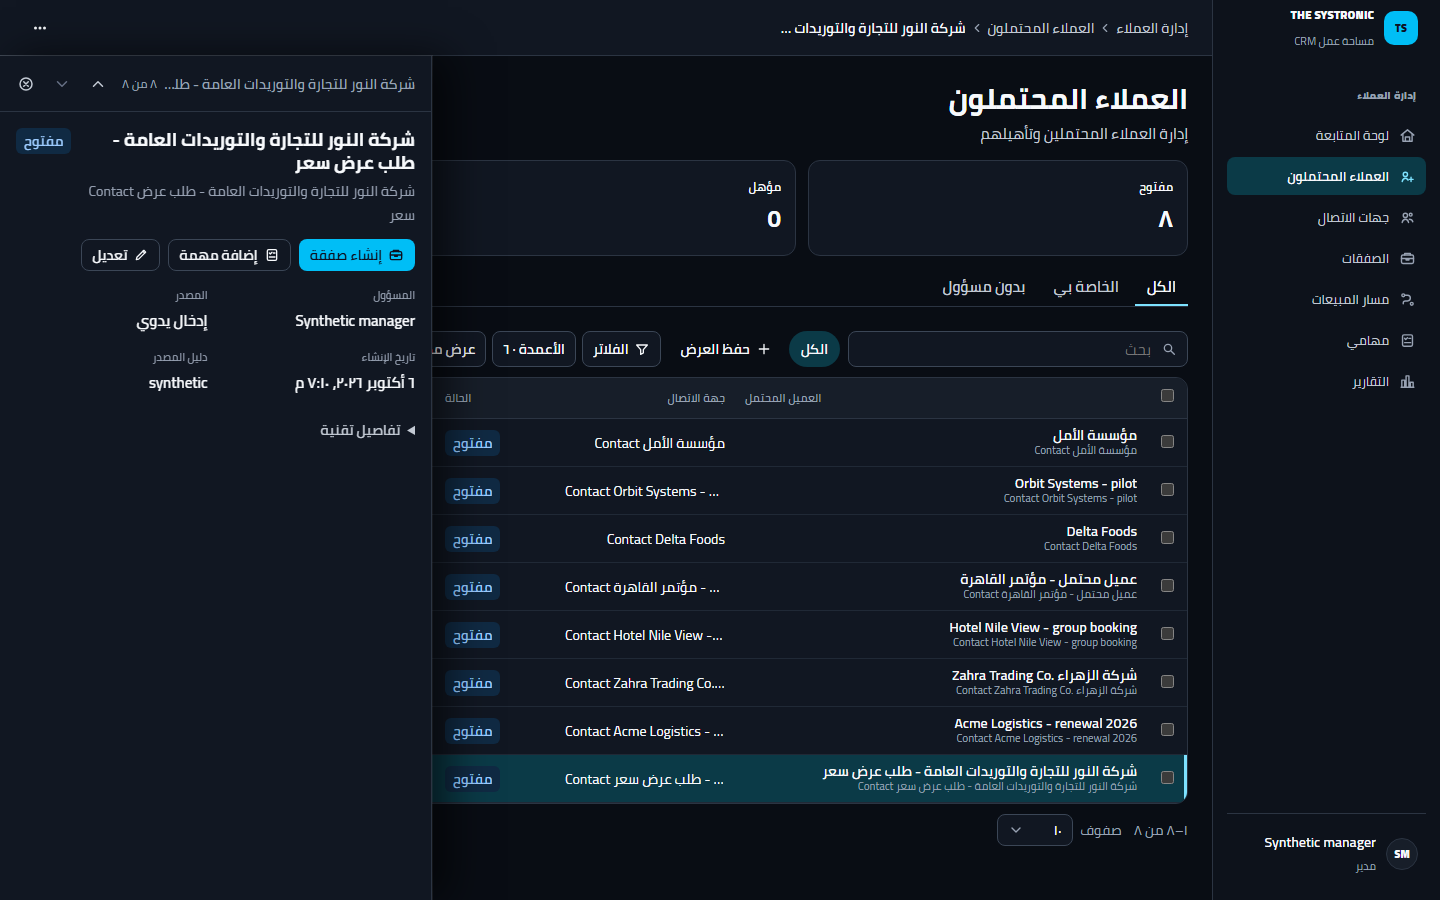
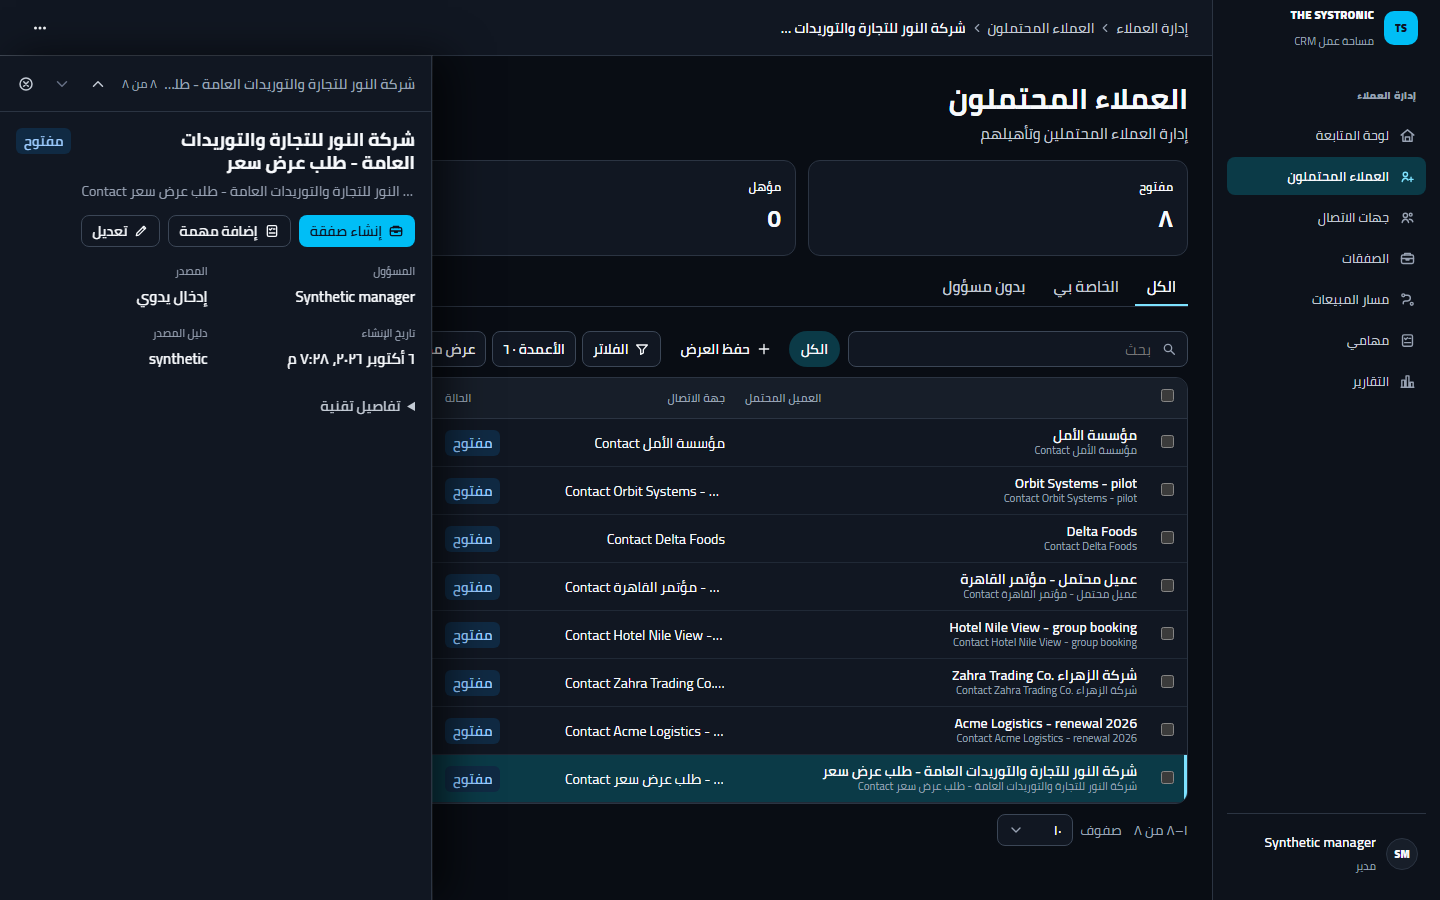
fix(crm): isolate mixed AR/EN user content centrally (BidiText + RecordPanel)
- BidiText: UI-direction wrapper (text-align:start) around a dir=auto value
  span; single-line ellipsis by default, `wrap` variant with text-wrap:balance
- RecordPanel: title/subtitle rendered as isolated BidiText (subtitle one line,
  full value in title attr) — fixes fragmented "Contact …" line in AR
- isolates for task related name, Select trigger value, saved-view names,
  pipeline card/stage; pipeline move-failed message via ICU placeholder
- tests: mvp-bidi-user-content.spec.ts (Latin-first + Arabic-first values,
  EN+AR, grid + panel), bidi-text unit test

Checks: lint 0, typecheck ok, unit 306, db 91, bootstrap 4, ui 213, build ok.

Changed region(s): [[0.0625, 0.1244, 0.3125, 0.4978]]

diff --git a/CRM_APP/tests/mvp-bidi-user-content.spec.ts b/CRM_APP/tests/mvp-bidi-user-content.spec.ts
@@ -1,0 +1,114 @@
+import { randomUUID } from "node:crypto";
+import { type APIRequestContext, expect, type Locator, type Page, test } from "@playwright/test";
+import pg from "pg";
+import { seed } from "../scripts/seed.js";
+
+process.loadEnvFile(".env");
+
+// UI_R4_SPEC I: USER CONTENT direction is decided per value from its first strong character, independent of the UI
+// direction; the value sits in its own isolated element and aligns to the UI start (right in AR, left in EN).
+async function fixture() {
+	const admin = new pg.Client({ connectionString: process.env.ADMIN_DATABASE_URL });
+	await admin.connect();
+	const f = await seed(admin);
+	await admin.end();
+	return f;
+}
+type Fixture = Awaited<ReturnType<typeof fixture>>;
+
+async function makeLead(request: APIRequestContext, f: Fixture, title: string, contact: string) {
+	const command_id = randomUUID();
+	const res = await request.post("/v1/leads", {
+		headers: {
+			Authorization: `Bearer ${f.tokens.manager}`,
+			"X-Tenant-ID": f.ids.a,
+			"Idempotency-Key": command_id,
+		},
+		data: { command_id, title, source_evidence: "synthetic", contact: { display_name: contact } },
+	});
+	expect(res.status()).toBe(201);
+}
+
+// Latin-first value with Arabic inside (resolves LTR) and Arabic-first value with Latin inside (resolves RTL).
+const LATIN_FIRST = { title: "Acme شركة النور للتجارة", contact: "Contact شركة النور - طلب عرض سعر" };
+const ARABIC_FIRST = { title: "شركة النور Orange Egypt", contact: "عميل VIP - شركة Orange" };
+
+/** Direction of the value element and where its text actually sits inside it (short values: no overflow). */
+async function measure(el: Locator) {
+	return el.evaluate((node) => {
+		const box = (node.closest("td, .sy-record") ?? (node.parentElement as HTMLElement)).getBoundingClientRect(); // the cell / title block
+		const range = document.createRange();
+		range.selectNodeContents(node);
+		const text = range.getBoundingClientRect();
+		return {
+			dir: getComputedStyle(node).direction,
+			attr: node.getAttribute("dir"),
+			gapStart: Math.round(text.left - box.left),
+			gapEnd: Math.round(box.right - text.right),
+		};
+	});
+}
+
+for (const language of ["en", "ar"] as const)
+	test(`mixed user content ${language}: each value resolves its own direction and aligns to the UI start, in the grid and in the preview panel`, async ({
+		page,
+		request,
+	}: {
+		page: Page;
+		request: APIRequestContext;
+	}) => {
+		const f = await fixture();
+		await makeLead(request, f, LATIN_FIRST.title, LATIN_FIRST.contact);
+		await makeLead(request, f, ARABIC_FIRST.title, ARABIC_FIRST.contact);
+		await page.setViewportSize({ width: 1440, height: 900 });
+		await page.addInitScript((l) => localStorage.setItem("sy.locale", l), language);
+		await page.goto("/app/leads");
+		await page.locator("input[name=token]").fill(f.tokens.manager);
+		await page.locator("input[name=tenant]").fill(f.ids.a);
+		await page.getByTestId("connect-submit").click();
+		await expect(page.getByTestId("grid-row")).toHaveCount(2);
+		await expect(page.locator("html")).toHaveAttribute("dir", language === "ar" ? "rtl" : "ltr");
+
+		// UI start edge: text hugs the start side of its block (the other side carries the free space)
+		const atUiStart = (m: { gapStart: number; gapEnd: number }) =>
+			language === "ar" ? m.gapEnd <= 12 && m.gapStart > m.gapEnd + 20 : m.gapStart <= 12 && m.gapEnd > m.gapStart + 20;
+
+		for (const [sample, expected] of [
+			[LATIN_FIRST, "ltr"],
+			[ARABIC_FIRST, "rtl"],
+		] as const) {
+			const row = page.getByTestId("grid-row").filter({ hasText: sample.title.split(" ")[0] === "Acme" ? "Acme" : "Orange Egypt" });
+			// grid cell: lead name + contact caption (identity cell) and the Contact column
+			const name = row.locator(".sy-cell-id__name .sy-bidi-text");
+			const m = await measure(name);
+			expect(m.attr).toBe("auto");
+			expect(m.dir).toBe(expected);
+			expect(atUiStart(m), JSON.stringify(m)).toBe(true);
+			const caption = row.locator(".sy-cell-id__caption .sy-bidi-text");
+			expect((await measure(caption)).dir).toBe(expected === "ltr" ? "ltr" : "rtl");
+			expect(atUiStart(await measure(caption))).toBe(true);
+
+			// preview panel: title (wraps) and contact subtitle (single line, full value in title)
+			await name.click();
+			const panel = page.getByTestId("lead-detail");
+			await expect(panel).toBeVisible();
+			await page.waitForTimeout(300);
+			const title = panel.locator(".sy-record__title .sy-bidi-text");
+			const mt = await measure(title);
+			expect(mt.attr).toBe("auto");
+			expect(mt.dir).toBe(expected);
+			// the (wrapping) title may fill its block: only the START side must be flush
+			expect(language === "ar" ? mt.gapEnd <= 12 : mt.gapStart <= 12, JSON.stringify(mt)).toBe(true);
+			const sub = panel.locator(".sy-record__subtitle .sy-bidi-text");
+			const ms = await measure(sub);
+			expect(ms.dir).toBe(expected === "ltr" ? "ltr" : "rtl"); // contact value of the same sample resolves the same way
+			expect(atUiStart(ms), JSON.stringify(ms)).toBe(true);
+			await expect(sub).toHaveAttribute("title", sample.contact);
+			// one line: no orphaned last word
+			expect(await sub.evaluate((n) => n.getBoundingClientRect().height < 40)).toBe(true);
+			// the user value is never glued to UI text: the subtitle element holds exactly the value
+			await expect(sub).toHaveText(sample.contact);
+			await panel.getByTestId("preview-close").click();
+			await expect(panel).toHaveCount(0);
+		}
+	});

diff --git a/CRM_APP/app/src/ui/i18n/bidi-text.test.tsx b/CRM_APP/app/src/ui/i18n/bidi-text.test.tsx
@@ -1,0 +1,32 @@
+import { readFileSync } from "node:fs";
+import { dirname, join } from "node:path";
+import { fileURLToPath } from "node:url";
+import { renderToStaticMarkup } from "react-dom/server";
+import { describe, expect, it } from "vitest";
+import { BidiText } from "./Bdi.tsx";
+
+const base = readFileSync(join(dirname(fileURLToPath(import.meta.url)), "..", "theme", "base.css"), "utf8");
+
+describe("BidiText (user content, UI_R4_SPEC I)", () => {
+	it("renders the value alone in its own dir=auto element, with the full value in title when given", () => {
+		const html = renderToStaticMarkup(<BidiText title="Contact شركة">Contact شركة</BidiText>);
+		expect(html).toBe(
+			'<span class="sy-bidi-wrap"><span dir="auto" class="sy-bidi-text" title="Contact شركة">Contact شركة</span></span>',
+		);
+	});
+	it("wrap mode is a modifier class (several lines for titles), same dir=auto isolate", () => {
+		const html = renderToStaticMarkup(<BidiText wrap>شركة النور</BidiText>);
+		expect(html).toContain('dir="auto"');
+		expect(html).toContain("sy-bidi-text sy-bidi-text--wrap");
+	});
+	it("CSS: the UI-direction wrapper aligns with text-align:start (no per-value flip, no physical left/right); wrap variant balances lines", () => {
+		const wrapRule = base.match(/\.sy-bidi-wrap\s*\{[^}]*\}/)?.[0] ?? "";
+		expect(wrapRule).toMatch(/text-align:\s*start/);
+		const rule = base.match(/\.sy-bidi-text\s*\{[^}]*\}/)?.[0] ?? "";
+		expect(rule).toMatch(/display:\s*inline-block/);
+		expect(rule).toMatch(/text-overflow:\s*ellipsis/);
+		expect(rule).not.toMatch(/text-align/);
+		expect(base).not.toMatch(/:root\[dir="rtl"\]\s*\.sy-bidi-(text|wrap)/);
+		expect(base.match(/\.sy-bidi-text--wrap\s*\{[^}]*\}/)?.[0] ?? "").toMatch(/text-wrap:\s*balance/);
+	});
+});

diff --git a/CRM_APP/app/src/ui/i18n/Bdi.tsx b/CRM_APP/app/src/ui/i18n/Bdi.tsx
@@ -12,20 +12,31 @@ export function Bdi({ children }: { children: ReactNode }) {
  * Single-line truncating text for user-entered / mixed Arabic-Latin strings (UX-R2-02). `dir="auto"` gives the
  * element the direction of its own first strong character, so the clip + ellipsis fall on the END of the logical
  * string (a Latin title in the Arabic UI loses its tail, not its head). Alignment still follows the UI direction
- * (see .sy-bidi-text) so a column does not zig-zag; an overflowing line falls back to the start edge.
+ * (the outer `.sy-bidi-wrap` keeps the UI direction with `text-align: start`; the value is a shrink-wrapped inline-block
+ * inside it) so a column does not zig-zag, whatever the value's own direction; an overflowing line is clipped with an ellipsis
+ * at the end of the value's own direction. `wrap` lets a title use several lines instead of truncating. Pass the user value ALONE (a string):
+ * never concatenate it with UI text; put the UI text in a sibling element or use an ICU placeholder.
  */
 export function BidiText({
 	children,
 	className,
 	title,
+	wrap,
 }: {
 	children: ReactNode;
 	className?: string;
 	title?: string;
+	wrap?: boolean;
 }) {
 	return (
-		<span dir="auto" className={`sy-bidi-text${className ? ` ${className}` : ""}`} title={title}>
-			{children}
+		<span className="sy-bidi-wrap">
+			<span
+				dir="auto"
+				className={`sy-bidi-text${wrap ? " sy-bidi-text--wrap" : ""}${className ? ` ${className}` : ""}`}
+				title={title}
+			>
+				{children}
+			</span>
 		</span>
 	);
 }

diff --git a/CRM_APP/app/src/ui/primitives/RecordPanel.tsx b/CRM_APP/app/src/ui/primitives/RecordPanel.tsx
@@ -1,5 +1,5 @@
 import { createContext, type ReactNode, useContext, useEffect, useState } from "react";
-import { useI18n } from "../i18n/index.ts";
+import { BidiText, useI18n } from "../i18n/index.ts";
 import { Dialog } from "../overlays/Dialog.tsx";
 import type { PreviewGuard } from "../overlays/previewGuard.tsx";
 import { PreviewPanel, type PreviewNav } from "../overlays/PreviewPanel.tsx";
@@ -29,6 +29,7 @@ export type RecordPanelProps = {
 	testId: string;
 	/** Changing record resets edit mode. */
 	recordKey: string;
+	/** Pass the user value ALONE as a string: it is isolated, direction-resolved per value and aligned to the UI start. */
 	title: ReactNode;
 	titleTestId?: string;
 	subtitle?: ReactNode;
@@ -142,10 +143,20 @@ function RecordBody(p: RecordPanelProps) {
 				<div className="sy-record__head">
 					<div className="sy-record__titles">
 						<p className="sy-record__title" data-testid={p.titleTestId}>
-							<bdi dir="auto">{p.title}</bdi>
+							{typeof p.title === "string" ? (
+								<BidiText wrap>{p.title}</BidiText>
+							) : (
+								<bdi dir="auto">{p.title}</bdi>
+							)}
 						</p>
 						{p.subtitle ? (
-							<p className="sy-record__subtitle">{p.subtitle}</p>
+							<p className="sy-record__subtitle">
+								{typeof p.subtitle === "string" ? (
+									<BidiText title={p.subtitle}>{p.subtitle}</BidiText>
+								) : (
+									p.subtitle
+								)}
+							</p>
 						) : null}
 					</div>
 					{p.chip ? <span data-testid={p.chipTestId}>{p.chip}</span> : null}

diff --git a/CRM_APP/app/src/features/pipeline/PipelineView.tsx b/CRM_APP/app/src/features/pipeline/PipelineView.tsx
@@ -4,6 +4,7 @@ import { navigate } from "../../router.ts";
 import { readPref, writePref } from "../../ui/storage.ts";
 import {
 	Badge,
+	BidiText,
 	Button,
 	EmptyState,
 	ErrorState,
@@ -106,10 +107,10 @@ function DealCard({
 				onClick={() => navigate("/deals", `?select=${deal.id}`)}
 			>
 				<b className="sy-pipe__title" title={deal.title}>
-					{deal.title}
+					<BidiText>{deal.title}</BidiText>
 				</b>
 				<span className="sy-pipe__meta" title={contactName}>
-					{contactName}
+					<BidiText>{contactName}</BidiText>
 				</span>
 				<span className="sy-pipe__foot">
 					<span
@@ -184,7 +185,7 @@ function Column({
 		>
 			<header className="sy-pipe__head">
 				<h2 className="sy-pipe__stage" id={headId}>
-					{col.stage.name}
+					<bdi>{col.stage.name}</bdi>
 				</h2>
 				<Badge
 					tone={
@@ -249,7 +250,7 @@ function Column({
 }
 
 export function PipelineView() {
-	const { t, formatNumber } = useI18n();
+	const { t, tx, formatNumber } = useI18n();
 	const toast = useToast();
 	const tenantId = sessionStore.getCredentials()?.tenantId ?? "";
 
@@ -581,7 +582,7 @@ export function PipelineView() {
 						role="alert"
 						data-testid="pipeline-error"
 					>
-						<b>{t("pipeline.moveFailed", { title: notice.title })}</b>
+						<b>{tx("pipeline.moveFailed", { title: notice.title })}</b>
 						<p>{t(TRANSITION_ERR[notice.kind])}</p>
 						<Button size="sm" variant="ghost" onClick={() => setNotice(null)}>
 							{t("pipeline.dismiss")}

diff --git a/CRM_APP/app/src/ui/theme/base.css b/CRM_APP/app/src/ui/theme/base.css
@@ -75,18 +75,29 @@ a {
 }
 
 /* Truncating mixed-script text (UX-R2-02): the element takes the direction of its own first strong character
-   (dir="auto" set by <BidiText>), so the ellipsis lands on the logical END of the string. Alignment follows the UI
-   direction so a column does not zig-zag; an overflowing line is start-aligned by the browser. */
-.sy-bidi-text {
+   (dir="auto" set by <BidiText>), so the ellipsis lands on the logical END of the string. The wrapper keeps the UI
+   direction with `text-align: start` and the value is a shrink-wrapped inline-block inside it: it sits at the UI start
+   edge (right in AR, left in EN) whatever its own direction, so a column does not zig-zag. */
+.sy-bidi-wrap {
 	display: block;
 	min-width: 0;
+	text-align: start;
+}
+.sy-bidi-text {
+	display: inline-block;
+	max-width: 100%;
+	vertical-align: top;
 	overflow: hidden;
-	text-align: left;
 	text-overflow: ellipsis;
 	white-space: nowrap;
 }
-:root[dir="rtl"] .sy-bidi-text {
-	text-align: right;
+/* Titles: several lines, no truncation, no orphaned last word. */
+.sy-bidi-text--wrap {
+	overflow: visible;
+	text-overflow: clip;
+	white-space: normal;
+	overflow-wrap: anywhere;
+	text-wrap: balance;
 }
 
 /* Money (UX-R2-05): one isolate in the locale's own direction so the currency symbol's period stays at its end. */

diff --git a/CRM_APP/tests/mvp-ui-r4-b1.spec.ts b/CRM_APP/tests/mvp-ui-r4-b1.spec.ts
@@ -261,7 +261,7 @@ for (const lang of ["en", "ar"] as const) {
 			await expect(input).toHaveAttribute("dir", "auto");
 			await page.getByTestId("lead-save").click();
 			await expect(page.getByTestId("record-editor")).toHaveCount(0);
-			await expect(page.getByTestId("lead-detail").locator(".sy-record__title bdi[dir=auto]")).toHaveText(s);
+			await expect(page.getByTestId("lead-detail").locator(".sy-record__title .sy-bidi-text[dir=auto]")).toHaveText(s);
 			await expect(page.locator(".sy-cell-id__name .sy-bidi-text[dir=auto]").first()).toHaveText(s);
 			await expect(page.getByTestId("breadcrumb-current").locator("bdi[dir=auto]")).toHaveText(s);
 			await expect(page.getByTestId("toast").locator(".sy-toast__msg bdi[dir=auto]").last()).toBeVisible();

diff --git a/CRM_APP/app/src/features/contacts/ContactDetail.tsx b/CRM_APP/app/src/features/contacts/ContactDetail.tsx
@@ -562,9 +562,9 @@ export function ContactDetail({
 			label={t("contacts.detail.title")}
 			testId="contact-detail"
 			recordKey={contact.id}
-			title={<Bdi>{contact.display_name}</Bdi>}
+			title={contact.display_name}
 			titleTestId="contact-detail-title"
-			subtitle={<Bdi>{contact.ownerName}</Bdi>}
+			subtitle={contact.ownerName}
 			onClose={onClose}
 			actions={
 				<>

diff --git a/CRM_APP/app/src/features/leads/LeadDetail.tsx b/CRM_APP/app/src/features/leads/LeadDetail.tsx
@@ -230,9 +230,9 @@ export function LeadDetail({
 			recordKey={lead.id}
 			heading={lead.title}
 			preview={preview}
-			title={<Bdi>{lead.title}</Bdi>}
+			title={lead.title}
 			titleTestId="lead-detail-title"
-			subtitle={<Bdi>{lead.contactName}</Bdi>}
+			subtitle={lead.contactName}
 			chip={
 				<Badge tone={STATUS_TONE[lead.status]}>
 					{t(STATUS_KEY[lead.status])}

diff --git a/CRM_APP/app/src/ui/primitives/Select.tsx b/CRM_APP/app/src/ui/primitives/Select.tsx
@@ -310,7 +310,7 @@ export function Select({
 						onKeyDown={onKeyDown}
 					>
 						<span className="sy-select__value">
-							{selected ? selected.label : " "}
+							{selected ? <bdi>{selected.label}</bdi> : " "}
 						</span>
 						<Icon name="chevronDown" size={16} className="sy-select__chevron" />
 					</button>

diff --git a/CRM_APP/app/src/features/tasks/TaskDetail.tsx b/CRM_APP/app/src/features/tasks/TaskDetail.tsx
@@ -258,7 +258,7 @@ export function TaskDetail({
 			label={t("tasks.detail.title")}
 			testId="task-detail"
 			recordKey={task.id}
-			title={<Bdi>{task.title}</Bdi>}
+			title={task.title}
 			titleTestId="task-detail-title"
 			subtitle={<RelatedLink row={task} />}
 			chip={

diff --git a/CRM_APP/playwright.config.ts b/CRM_APP/playwright.config.ts
@@ -23,6 +23,7 @@ export default defineConfig({
 		"mvp-ui-r4-b1.spec.ts",
 		"mvp-server-query.spec.ts",
 		"mvp-preview-leads.spec.ts",
+		"mvp-bidi-user-content.spec.ts",
 	],
 	workers: 1,
 	use: { baseURL: "http://127.0.0.1:4317", browserName: "chromium" },
